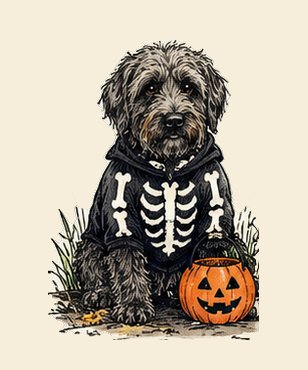
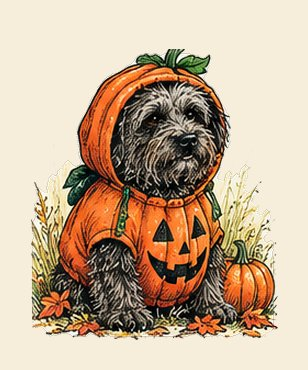
Grizzy's Halloween outfit is the pumpkin costume
Claude-Session: https://claude.ai/code/session_012ajPJ2dUZoqjMvSPRPJZjM

diff --git a/sw.js b/sw.js
@@ -1,5 +1,5 @@
 // Mia's Almanac service worker: caches the app so it opens with no signal. The last forecast is kept by the page itself.
-const VERSION = "ma-v35";
+const VERSION = "ma-v36";
 const SHELL = ["./", "index.html", "almanac-core.js", "beaver-portrait.png", "icon-64.png", "icon-180.png", "icon-512.png", "manifest.json"];
 self.addEventListener("install", (e) => { e.waitUntil(caches.open(VERSION).then((c) => c.addAll(SHELL.map((u) => new Request(u, { cache: "reload" })))).then(() => self.skipWaiting())); });
 self.addEventListener("activate", (e) => { e.waitUntil(caches.keys().then((keys) => Promise.all(keys.filter((k) => k !== VERSION).map((k) => caches.delete(k)))).then(() => self.clients.claim())); });
